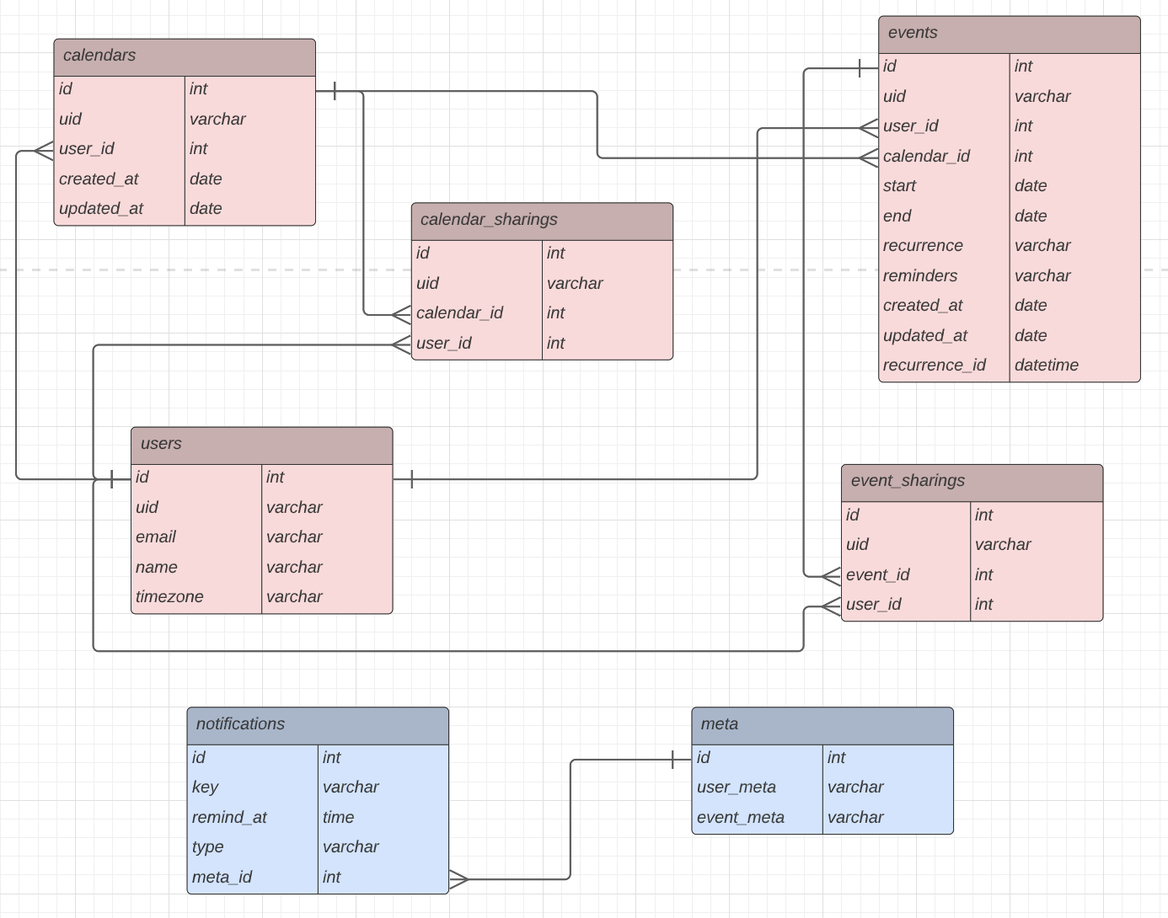
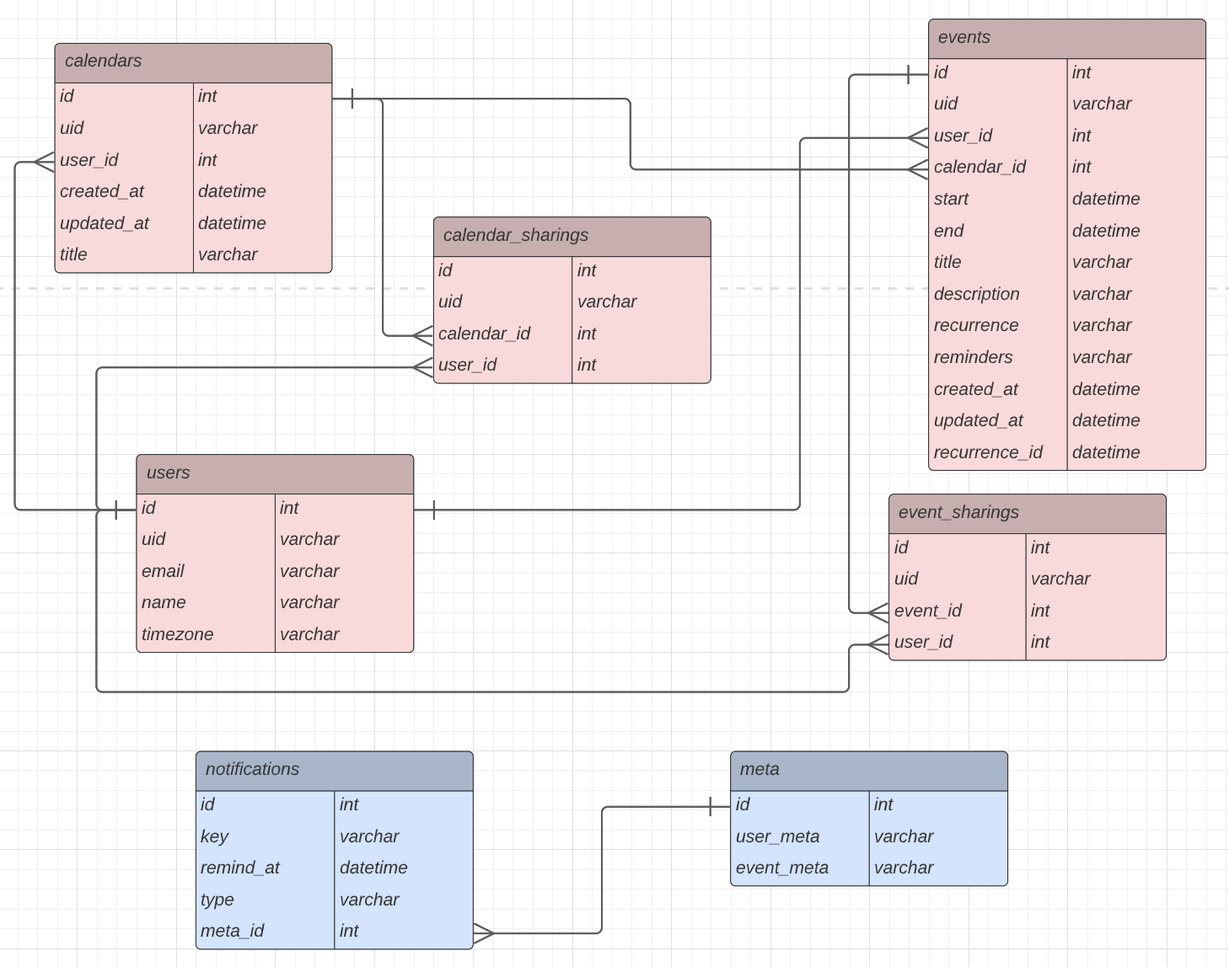
Servers

Changed region(s): [[0.0, 0.0, 0.9928, 0.7174], [0.1551, 0.7486, 0.4964, 0.9982], [0.4964, 0.7486, 0.8377, 0.9358]]

diff --git a/README.md b/README.md
@@ -1,6 +1,7 @@
 # 1. Тема и целевая аудитория
-Календарь
-## MVP
+Google calendar
+
+## MVP  
 1) Создание календаря
 2) Просмотр календаря
 3) Создание и редактирование событий
@@ -12,7 +13,7 @@
 
 # 2. Расчет нагрузки  
 ## Продуктовые метрики
-Ввиду отсутствия источников со статистикой использования  google calendar, используем статистику vk calendar и экстраполируем ее на пользователей google.
+Ввиду отсутствия источников со статистикой использования google calendar, используем статистику mail calendar и экстраполируем ее на пользователей google.
 
 Используем следующую статистику:  
 DAU - 90k  
@@ -26,11 +27,11 @@ MAU - 1.5M
 Подписка на внешние календари daily - 1550  
 Просмотр событий внешних календарей daily - 300  
 
-Пользователи почты mail - 32.3 млн человек / месяц [1]
+Пользователи почты mail.ru - 32.3 млн человек / месяц [1]
 Проценты пользователей календаря 1.5М/45М = 5%
-Пользователи gmail 1.8B/month [2]
+Пользователи gmail.com 1.8B/month [2]
 1.8B * 5% = 90M пользователей календаря(месячная аудитория)
-По пропорции с mail calendar - 5.4M пользователей daily
+По пропорции с mail.ru calendar - 5.4M пользователей daily
 
 * **Месячная аудитория**  
 Месячная аудитория  = 90M
@@ -43,88 +44,103 @@ MAU - 1.5M
     * ***Профиль пользователя***    
     Длина почтового адреса 99.9 персентиля не более 40 символов.[3]
     Рекомендуемая длина имени пользователя 70 символов.[4]
+    Сгенерированный uid содержит 36 символов.
     Средняя длина названий таймзон - 20 символов.
 
     Итого: 
-    Метаинформация профиля = `1б * (40 + 70 + 20) + 32б = 162б` 
+    Размер хранилища профиля = `1б * (40 + 70 + 20 + 36) + 32б = 198б` 
     * ***Календари пользователя***
     В среднем у пользователей не более 2ух личных календарей
     Сгенерированный uid содержит 36 символов.
-    Метаинформация календарей = `(4б + 36б + 4б + 8б + 8б) * 2 = 120б`
+    Пусть максимальная длина названия поля title 100 символов.
+    Размер хранилища календарей = `(4б + 36б + 4б + 8б + 8б + 100б) * 2 = 320б`
 
     * ***Шаринги календарей***  
     В среднем 3-4 шаринга календарей
     Сгенерированный uid содержит 36 символов.
-    Метаинформация шарингов календарей = `(4б + 36б + 4б + 4б) * 4 = 192б`
+    Размер хранилища шарингов календарей = `(4б + 36б + 4б + 4б) * 4 = 192б`
 
     * ***События***  
-    В среднем до 3000 событий.
-    Метаинформация событий = `(4б + 36б + 4б + 4б + 8б + 8б + 100б + 100б + 8б + 8б) * 3000 = 820Кб`
+    В среднем до 3000 событий у ползователя.
+    Пусть максимальная длина названия поля title 200 символов.
+    Пусть максимальная длина названия поля description 1000 символов.
+    Размер хранилища событий = `(4б + 36б + 4б + 4б + 8б + 8б + 200б + 1000б + 100б + 100б + 8б + 8б + 8б) * 3000 = 4.3Mб`
 
     * ***Шаринги событий***  
     В среднем до 5000 шарингов событий.
-    Метаинформация шарингов событий = `(4б + 36б + 4б + 4б) * 5000 = 234Кб`
+    Размер хранилища шарингов событий = `(4б + 36б + 4б + 4б) * 5000 = 234Кб`
 
+    * ***Напоминания/уведомления***
+    У каждого события в среднем 2 напоминания (за n минут и в момент события) + 1 уведомление в момент создания события. Если у пользователя хранится до 3000 событий и (5000 - 3000) шарингов событий, в которых он не организатор, то на него приходится 10000 напониманий и 5000 уведомлений.
+    key = calendar_uid + user_email + event_uid + recurrence_id
+    длина(recurrence_id) = 16 символов
+    длина(key) = длина(calendar_uid) + длина(user_email) + длина(event_uid) + длина(recurrence_id) + 3 * длина('/') = 36 + 40 + 36 + 16 + 3 = 131
+    Метаинформация напоминаний/уведомлений = `(200б + 2000б) * 15000 = 31.5Мб`
+    Размер хранилища напоминания/уведомлений = `(4б + 131б + 8б + 12б + 4б) * 15000 + 31.5Мб = 33.8Мб`
+    Из них хранятся длительное время только напоминания (без метаинформации) = `(4б + 131б + 8б + 12б + 4б) * 10000 = 1.5Мб`
 
 * **Среднее количество действий пользователя по типам в день**  
 
 |**Тип действия**               |**Частота**|
 |-------------------------------|-----------|
-|открытие календаря             |10         |
-|открытие события               |5          |
-|создание события               |1          |
-|редактирование события         |1          |
+|просмотр календаря             |4 / день   |
+|открытие события               |1  / день  |
+|создание события               |1 / неделя |
+|редактирование события         |1 / неделя |       |
+
+Исходя из статистики, в среднем пользователь проверяет календарь 4 раза / день. 
+Пользователь в среднем создает 1 событие в неделю (4 в месяц).
 
 
 ## Технические метрики
 * **Размер хранения в разбивке по типам данных**
-    * ***Профили пользователей***  
-    Пусть 162б на профиль(метаинформация)
-    Итого: `162б * 1.8млрд = 271.5 Гб`
+    * ***Профили пользователей***    
+    `198б * 1.8млрд = 332 Гб`
 
     * ***Календари пользователей***  
-    `120б * 1.8млрд = 201 Гб`
+    `320б * 1.8млрд = 536.4 Гб`
 
     * ***Шаринги календарей***  
     `192б * 54млн = 9.7Гб`
 
     * ***События***  
-    `820кб * 54млн = 41.2Тб`
+    `4.3кб * 54млн = 221.4Тб`
 
      * ***Шаринги событий*** 
     `234Кб * 54млн = 11.8Тб` 
 
 * **Сетевой трафик** 
 * ***Пиковое потребление в течении суток (в Гбит/с)***  
-Пиковое число запросов приходится на 10 - 11 часов утра. В основном пользователи просматривают свой календарь. В vk calendar 200k rps:
-Пиковый rps: `(54M / 1.5M) * 200k = 7.2M rps`
+Пиковое число запросов приходится на 9 - 10 часов утра. В основном пользователи просматривают свой календарь.
 Пусть в календаре каждый день в среднем 5 событий. События подгружаются по неделям. 
 Итого 35 событий / просмотр календаря.
-Итого пиковый трафик: ` 7.2M * (162б + 120б + 820Кб * 35) = 1.5M Гбит/c`
+Итого пиковый трафик: `5.4M * (198б + 320б + 4.3Мб * 35) / 3600 = 1763 Гбит/с`
 
 * ***Суммарное потребление в течении суток (в Гбайт/сутки)***  
-Среднесуточный rps: `(54M / 1.5M) * 145k = 5.2M rps`
-Итого суммарный трафик: `5.2M * (162б + 120б + 820Кб * 35) * 3600 * 24 = 12.3 * 10^9 Гбайт/cутки`
+Просмотр календаря: `5.4M * (198б + 320б + 4.3Мб * 35) * 4 = 3.1М Гбайт/сутки`  
+Нотификации: `5.4M * (4б + 131б + 8б + 12б + 4б + 200б + 2000б) * 35 * 4 * 3 = 5k Гбайт/сутки` 
 
 * **RPS в разбивке по типам запросов (запросов в секунду)**  
-
 Исходя из среднего количества действий пользователя по типам в день, посчитаем rps в разбивке по типам запросов. 
 
 1. Просмотр календаря.  
 При этом происходят запросы на получение календаря, событий, данных пользователя.
-Итого: `(10 * 3.24M * 3) / (24 * 3600) = 1125 RPS`  
+Итого: `(4 + 35 + 1) * 5.4M / (24 * 3600) = 2500 RPS`  
 
 2. Создание событий  
 Исходя из статистики, пользователь создает 1 событие в неделю (4 в месяц).
-Итого 360000 событий / день. 
-Итого `(360000) / (24 * 3600) = 4 RPS`  
+То есть 360000 событий / день. 
+То есть `(360000) / (24 * 3600) = 4 RPS`  
+Пусть в среднем у пользователя активных 5 повторяющихся событий (включая те, где он участник). 
+Тогда каждый день будут 5 дополнительных запросов на бекенд сервера (если предположить, что события повторяются каждый день). То есть дополнительно `(5.4М * 5) / (24 * 3600) = 313 RPS` 
+Итого суммарно `317 RPS`  
 
 3. Открытие событий
 Исходя из статистики, 2160000 / день.
 Итого `(2160000) / (24 * 3600) = 25 RPS`  
 
 4. Получение уведомлений/напоминаний.  
-У каждого события в среднем 2 напоминания (за n минут и в момент события) + 1 уведомление в момент создания события. 95 всех событий - без дополнительных участников. Пусть события с участниками имеют в среднем 3 участника. Итого, если в день 7920000 событий, то 7524000 уведомлений и напоминаний только для организатора + 396000 уведомлений и напоминаний для 3 участников. 
+ 95% всех событий - без дополнительных участников. Пусть события с участниками имеют в среднем 3 участника. Итого, если в день 7920000 событий, то 7524000 уведомлений и напоминаний только для организатора + 396000 уведомлений и напоминаний для 3 участников. 
 Итого `(7524000 * 2 + 7524000 + 396000 * 3 * 2 + 396000 * 3) / (24 * 3600) = 302 RPS` в сервис напоминаний.
 
 ## 3. Логическая схема
@@ -137,6 +153,8 @@ calendar_sharings - реплики публичных календарей у п
 events - события пользователей  
 event_sharings - реплики событий у участников событий  
 users - пользователи   
+notifictions - напоминания / уведомления  
+meta - метаинформация напоминаний/ уведомлений  
 
 ## 4.  Физическая схема
 
@@ -202,6 +220,105 @@ ip-адреса фронтенд серверов записываются в A-
 
 ![backendbalance](./backendbalance.png)
 
+## 7. Список серверов  
+Исходя из статистики пользователей гугл почты по странам [5], можно получить картину распределения пользователей календаря по странам.  
+|**Страна**        |**Пользователи, %**|
+|------------------|------|
+|США               |16.4  |
+|Италия            |2.4   |
+|Германия          |5     |
+|Россия            |1.2   |
+|Англия            |4.4   |
+|Индия             |15.8  |
+|Южная Африка      |2.3   |
+|Франция           |2.4   |
+|Испания           |2.6   |
+|Аргентина         |2.1   |
+|Бразилия          |10    |
+|Чили              |1.5   | 
+|Саудовская Авария |1.6   | 
+|Канада            |1.4   | 
+|Австралия         |9.8   | 
+|Нидерланды        |0.5   | 
+|Мексика           |5.3   | 
+|Япония            |4     | 
+|Швеция            |0.4   | 
+|Новая Зеландия    |0.25  | 
+|Колумбия          |2     | 
+|Дания             |0.2   | 
+|Индонезия         |16.5  | 
+|Бельгия           |0.5   | 
+|Швейцария         |0.3   |
+
+Выделим распределение по пользователям на материках и отдаленных локациях:
+Северная Америка 23.1 %  
+Южная Америка 15.6 %  
+Южная Африка 2.3 %  
+Россия 1.2 %  
+Индия 15.8 %  
+Индонезия 16.5 %  
+Европа 18.7 %  
+Австралия 10 %  
+Саудовская Аравия 1.6 %  
+
+В этих локациях можно устанавливать сервера (как фронтенд, так и бекенд)  
+**Фронтенд**
+***NGINX***  
+В среднем NGINX выдает 300 RPS на 1 ядро. Покажем расчет на примере Южная Америка. Пусть в этом регионе календарем пользуются `5.4M * 0.156 = 0.82M` пользователей. Пиковый RPS достигается утром в 9-10 часов, когда пользователи смотрят расписание на день: `0.82M * (1 + 1 + 35) / 3600 = 8427 RPS` 
+Итого необходимо: `8427 RPS / 300 RPS = 28 ядер`. Достаточно одного 32 ядерного сервера в столице Бразилии, так как там больше всего пользователей. + 2 сервера-реплики для балансировки и отказоустройчивости.
+
+|**Локация**       |**Расположение**|**CPU (ядер) |	RAM (ГБ)  |	Диск(Гб)|	Количество, %**|
+|------------------|----------------|-------------|-----------|---------|------------------|
+|Южная Америка     |Бразилиа        |32           |64         |SSD 64   |3                 |
+|Северная Америка  |Нью-Йорк        |32           |64         |SSD 64   |3                 |
+|Северная Америка  |Нью-Мексико     |32           |64         |SSD 64   |3                 |
+|Южная Африка      |Кейптаун        |4            |64         |SSD 64   |3                 |
+|Россия            |Москва          |4            |64         |SSD 64   |3                 |
+|Индия             |Дели            |32           |64         |SSD 64   |3                 |
+|Индонезия         |Джакарта        |32           |64         |SSD 64   |3                 |
+|Европа            |Берлин          |32           |64         |SSD 64   |3                 |
+|Европа            |Лондон          |32           |64         |SSD 64   |3                 |
+|Австралия         |Сидней          |32           |64         |SSD 64   |3                 |
+|Саудовская Аравия |Эр-Рияд         |4            |64         |SSD 64   |3                 |
+
+**Бекенд**  
+***calendarapi***   
+Сервис calendarapi получает от фронтенд-серверов запросы на создание/просмотр календаря, создание/просмотр/редактирование событий, импорт публичных календарей, а также запросы от сервиса notifyapi на получение данных о нотификациях. Аналогичну расчету фронтенд серверов, выберем сервера, исходя из пиковой нагрузки:  
+
+|**Локация**       |**Расположение**|**CPU (ядер) |	RAM (ГБ)  |	Диск(Гб)|	Количество, %**|
+|------------------|----------------|-------------|-----------|---------|------------------|
+|Южная Америка     |Бразилиа        |32           |64         |SSD 64   |3                 |
+|Северная Америка  |Нью-Йорк        |32           |64         |SSD 64   |3                 |
+|Северная Америка  |Нью-Мексико     |32           |64         |SSD 64   |3                 |
+|Южная Африка      |Кейптаун        |4            |64         |SSD 64   |3                 |
+|Россия            |Москва          |4            |64         |SSD 64   |3                 |
+|Индия             |Дели            |32           |64         |SSD 64   |3                 |
+|Индонезия         |Джакарта        |32           |64         |SSD 64   |3                 |
+|Европа            |Берлин          |32           |64         |SSD 64   |3                 |
+|Европа            |Лондон          |32           |64         |SSD 64   |3                 |
+|Австралия         |Сидней          |32           |64         |SSD 64   |3                 |
+|Саудовская Аравия |Эр-Рияд         |4            |64         |SSD 64   |3                 |
+
+***notifyapi***  
+Сервис notifyapi получает от calendarapi нотификации. С учетом низкого на сервис RPS можно использовать везде 4 ядерные сервера.  Количество и расположение серверов аналогично предыдущему пункту.
+
+***email_pusher***  
+Аналогично предыдущему пункту.
+
+***db1***  
+Размер базы данных около 234Тб. Используем сервера с объемом памяти 32Тб. Учитывая что на каждый репликасет необходимо 3 сервера + оставить память под индексы, пусть для хранения данных в каждой локации используются 25 серверов с размером диска 32Тб.  
+Если в сервис calendarapi приходит около 3000 RPS, то в базу данных пусть в худшем случае приходит 30000 RPS. С учетом шардирования и репликации postgresql должен справиться с такой нагрузкой.  
+
+|**CPU (ядер) |	RAM (ГБ)  |	Диск(Тб)|	Количество, %**|
+|-------------|-----------|---------|------------------|
+|64            |32         |32       |25               |
+
+***db2***  
+Размер базы данных около 8Тб. Необходимы сервера с большим объемом оперативной памяти.
+|**CPU (ядер) |	RAM (ГБ)  |	Диск(Гб)|	Количество, %**|
+|-------------|-----------|---------|------------------|
+|8            |256        |32       |100               |
+
 ## Список использованных источников
 1. https://journal.open-broker.ru/visit-card/mail-ru-group/
 2. https://findstack.com/gmail-statistics/#:~:text=Gmail%20has%20over%201.8%20billion%20active%20users&text=Many%20of%20these%20customers%20access%20their%20inbox%20every%20day
@@ -209,4 +326,4 @@ ip-адреса фронтенд серверов записываются в A-
 4. https://stackoverflow.com/questions/30485/what-is-a-reasonable-length-limit-on-person-name-fields
 5. https://financesonline.com/number-of-active-gmail-users/
 
-131 млн США, 19.2 млн Италия, 40 млн Германия, 9.2 млн Россия, 35 млн Англия, 127 млн Индия, 18.3 млн Южная Африка, 19.4 млн Франция, 20.7 Испания, 16.5 млн Аргентина, 79.5 Бразилия, 12 млн Чили, 13 млн Саудовская Авария
+
